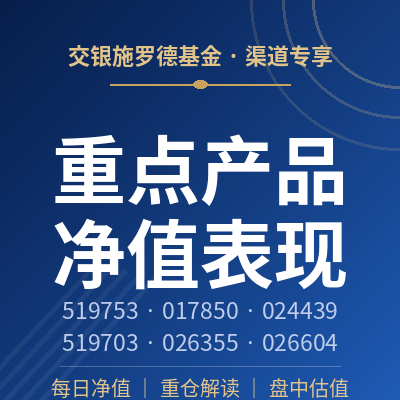
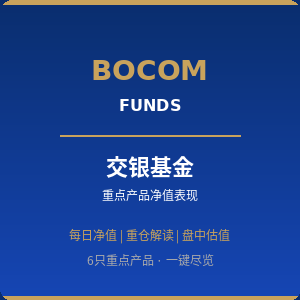
share.png 改为300x300/14KB小体积版，og:image 去参数用干净URL，提高微信爬虫抓取成功率

diff --git a/index.html b/index.html
@@ -7,14 +7,14 @@
 <meta name="description" content="交银基金6只重点产品每日净值、重仓解读、季报观点与盘中估值测算">
 <meta property="og:title" content="交银基金重点产品净值表现">
 <meta property="og:description" content="每日净值｜重仓解读｜盘中估值，一键尽览">
-<meta property="og:image" content="https://zhangfbin.github.io/fund-nav/share.png?v=2">
-<meta property="og:image:secure_url" content="https://zhangfbin.github.io/fund-nav/share.png?v=2">
-<meta property="og:image:width" content="400">
-<meta property="og:image:height" content="400">
+<meta property="og:image" content="https://zhangfbin.github.io/fund-nav/share.png">
+<meta property="og:image:secure_url" content="https://zhangfbin.github.io/fund-nav/share.png">
+<meta property="og:image:width" content="300">
+<meta property="og:image:height" content="300">
 <meta property="og:image:type" content="image/png">
 <meta property="og:type" content="website">
 <meta property="og:url" content="https://zhangfbin.github.io/fund-nav/">
-<meta itemprop="image" content="https://zhangfbin.github.io/fund-nav/share.png?v=2">
+<meta itemprop="image" content="https://zhangfbin.github.io/fund-nav/share.png">
 <style>
 :root{
   --brand:#0a2e6e; --brand2:#16468f; --gold:#c9a35c; --bg:#f4f6fa; --card:#ffffff;
